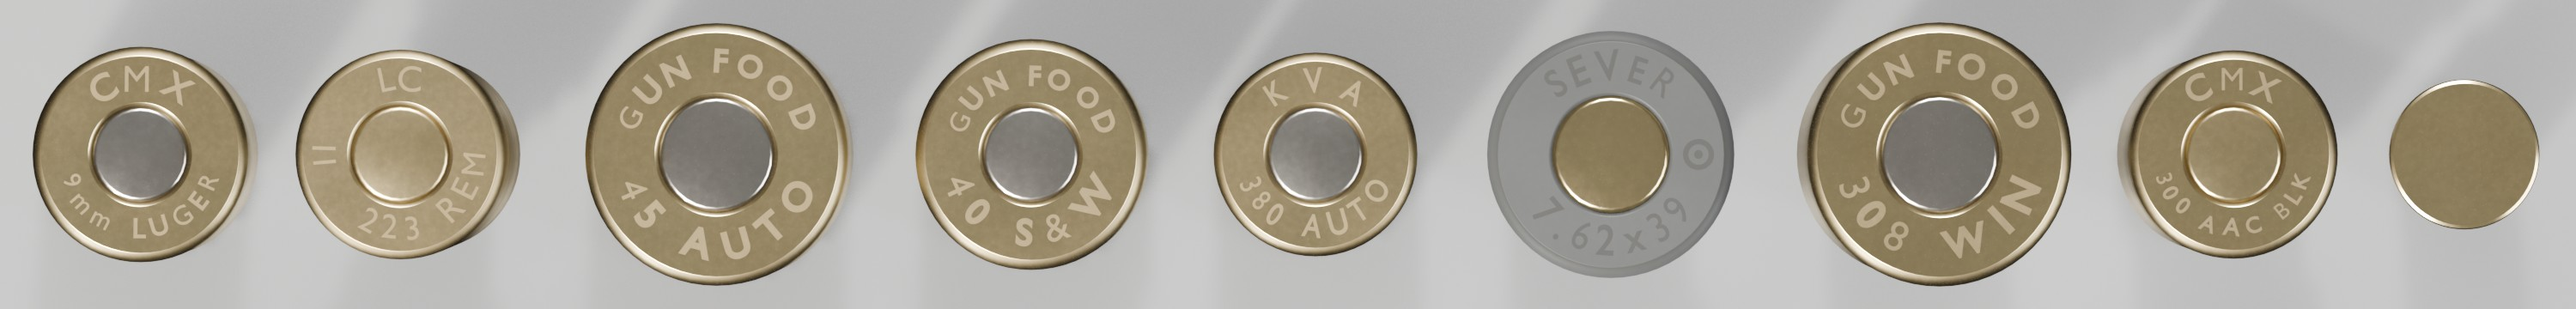
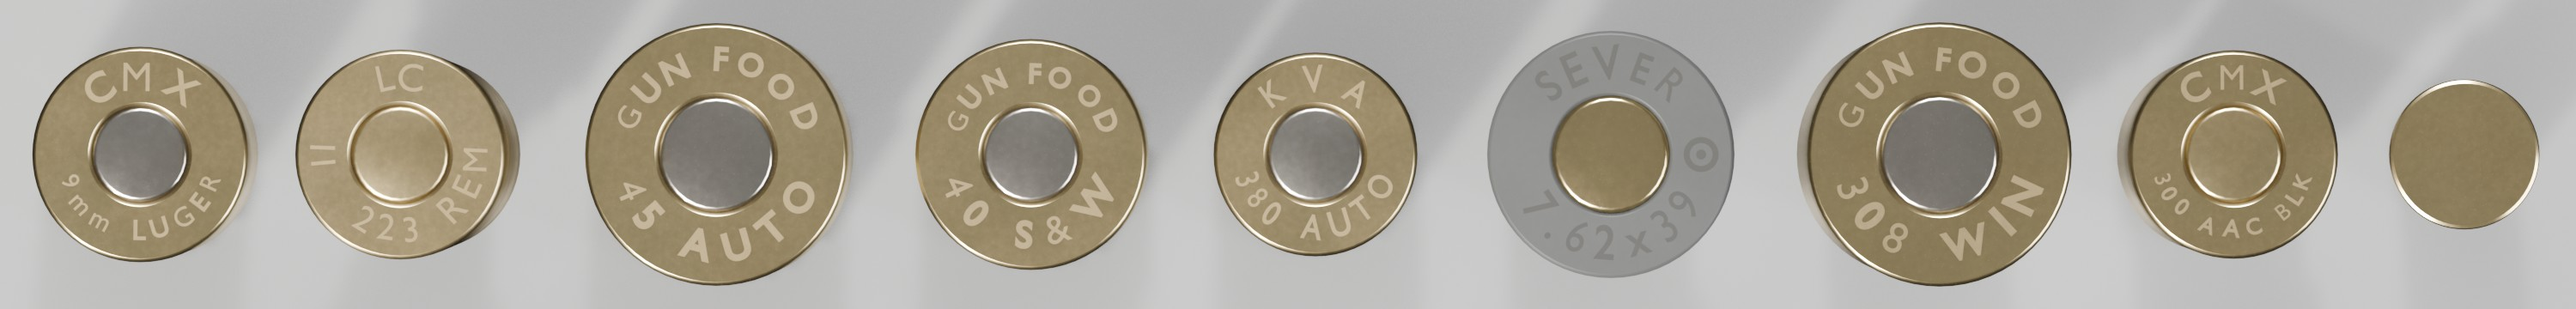
Rims and extractor grooves to SAAMI/C.I.P. geometry per cartridge
The rim front bevel was modelled as a cone added in front of the rim,
the same on every cartridge, with a 0.4 mm head-side chamfer no standard
calls for. Now, per the SAAMI drawings and the C.I.P. .223 sheet:

- the rim's outer face runs (rim thickness - rim_bevel) from the head,
  a 35 deg bevel (from the axis) takes it to the rim's flat front face
  at the rim thickness, then the groove bottom and a ramp at the
  cartridge's groove_front_angle up to the body (C.I.P. E = R + e + ramp)
- per-cartridge rim_bevel from SAAMI (rim thickness minus rim land),
  groove ramps 25 (.223, .300 BLK), 35 (9mm), 36 (.308), 48 (7.62x39);
  pistol ramps not labelled on the drawings are marked estimated
- head_chamfer (0.15 mm edge break) replaces rim_chamfer
- SPECS.md lists the new fields; README describes the rim geometry

diff --git a/cartridges/specs.py b/cartridges/specs.py
@@ -13,7 +13,8 @@ them as estimated.
 
 Naming follows C.I.P./SAAMI drawings: L1 shoulder_start, L2 neck_start, L3 length,
 P1 base_dia, P2 shoulder_dia, H1 mouth_dia (neck), R1 rim_dia, R rim_thickness,
-E groove_top, E1 groove_dia.
+E groove_top, E1 groove_dia, f rim_bevel, e groove_width, alpha rim_bevel_angle,
+beta groove_front_angle.
 
 Pure Python (no bpy): usable and testable outside Blender.
 """
@@ -81,10 +82,16 @@ class CaseSpec:
     neck_radius: float = 1.0  # fillet where shoulder meets neck
     # Extractor groove (rimless cases); defaults derived in finalize()
     groove_dia: float | None = None  # E1
-    groove_top: float | None = None  # E, head to start of body
-    rim_bevel_angle: float = 35.0  # rim front bevel, from the radial plane
-    groove_front_angle: float = 25.0  # groove ramp up to the body, from the axis
-    rim_chamfer: float = 0.32  # head-side rim chamfer, as a fraction of rim thickness
+    groove_top: float | None = None  # E, head to start of body; default from the groove below
+    # Rim and groove shape (rimless cases), as SAAMI and C.I.P. draw it: the rim's outer face
+    # runs from the head for (rim_thickness - rim_bevel), a bevel at rim_bevel_angle takes the
+    # front edge in to the rim's flat front face at rim_thickness, then the groove bottom
+    # (at least groove_width) and a ramp at groove_front_angle up to the body at groove_top.
+    rim_bevel: float = 0.38  # C.I.P. f: axial length of the rim's front bevel (SAAMI: rim thickness minus rim land)
+    rim_bevel_angle: float = 35.0  # C.I.P. alpha: rim front bevel, from the case axis
+    groove_width: float = 0.90  # C.I.P. e: flat bottom of the extractor groove (.223: 0.76 minimum)
+    groove_front_angle: float = 25.0  # C.I.P. beta: groove ramp up to the body, from the case axis
+    head_chamfer: float = 0.15  # mm, the head-side edge of the rim; not in the standards, edge just broken
     # Construction details, not in standards
     mouth_wall: float = 0.30
     base_wall: float = 0.90
@@ -285,8 +292,11 @@ def finalize(c: Cartridge) -> Cartridge:
     if k.rimless:
         if k.groove_dia is None:
             k.groove_dia = round(k.rim_dia * 0.86, 2)
-        if k.groove_top is None:
-            k.groove_top = round(k.rim_thickness + 1.9, 2)
+        if not (0.0 <= k.rim_bevel < k.rim_thickness):
+            raise SpecError(f"{w}: rim_bevel must be shorter than the rim thickness")
+        if k.groove_top is None:  # C.I.P.: E = R + e + ramp
+            ramp = (k.base_dia - k.groove_dia) / 2 / math.tan(math.radians(k.groove_front_angle))
+            k.groove_top = round(k.rim_thickness + k.groove_width + ramp, 2)
         if not (k.groove_dia < k.base_dia and k.groove_top > k.rim_thickness):
             raise SpecError(f"{w}: extractor groove must be narrower than the body and above the rim")
     # tolerances: record which ones fell back to class defaults

diff --git a/cartridges/profiles.py b/cartridges/profiles.py
@@ -138,27 +138,30 @@ def case_profile(c: CaseSpec, crimp: Crimp | None = None, seg: int = 5):
     pd = c.pocket_depth
     fh = c.flash_hole_dia / 2
     floor = pd + c.web
-    f = c.rim_chamfer * t
+    hc = min(c.head_chamfer, 0.3 * t)
     pts = [
         (fh, pd, 0, m),
         (rp, pd, 0.25, m),
         (rp, 0.15, 0.03, m),
         (rp + 0.15, 0.0, 0.03, m),  # pocket mouth chamfer
-        (R - f, 0.0, 0.06, m),  # head-side rim chamfer, edges just broken
-        (R, f, 0.06, m),
-        (R, t, 0.10, m),
+        (R - hc, 0.0, 0.03, m),  # head-side edge of the rim, just broken
+        (R, hc, 0.03, m),
     ]
     if c.rimless:
+        # SAAMI / C.I.P.: the rim's outer face, a bevel (f long, alpha from the axis) into the
+        # rim's flat front face at the rim thickness, the groove bottom, the ramp (beta) to the body
         G, E = c.groove_dia / 2, c.groove_top
-        rim_dz = (R - G) * math.tan(math.radians(c.rim_bevel_angle))
-        front_dz = (P1 - G) / math.tan(math.radians(c.groove_front_angle))
-        room = E - t - 0.25  # keep at least a 0.25 mm flat at the groove bottom
-        if rim_dz + front_dz > room:
-            k = room / (rim_dz + front_dz)
-            rim_dz, front_dz = rim_dz * k, front_dz * k
-        pts += [(G, t + rim_dz, 0.10, m), (G, E - front_dz, 0.20, m), (P1, E, 0.35, m)]
+        f = min(c.rim_bevel, t - hc - 0.05)
+        inset = min(f * math.tan(math.radians(c.rim_bevel_angle)), R - G)
+        pts += [(R, t - f, 0.04, m)]
+        if R - inset - G > 0.03:
+            pts += [(R - inset, t, 0.04, m), (G, t, 0.08, m)]
+        else:  # the bevel runs all the way down to the groove
+            pts += [(G, t, 0.08, m)]
+        front_dz = min((P1 - G) / math.tan(math.radians(c.groove_front_angle)), E - t - 0.25)
+        pts += [(G, E - front_dz, 0.15, m), (P1, E, 0.30, m)]
     else:
-        pts += [(P1, t, 0.30, m)]
+        pts += [(R, t, 0.10, m), (P1, t, 0.30, m)]
     if c.bottleneck:
         P2 = c.shoulder_dia / 2
         pts += [(P2, c.shoulder_start, c.shoulder_radius, m), (H1, c.neck_start, c.neck_radius, m)]

diff --git a/tools/gen_specs_md.py b/tools/gen_specs_md.py
@@ -28,6 +28,11 @@ CASE_ROWS = [
     ("rim_thickness", "Rim thickness (R)", "rim_thickness_tol"),
     ("groove_dia", "Extractor groove diameter (E1)", "groove_dia_tol"),
     ("groove_top", "Head to body (E)", None),
+    ("rim_bevel", "Rim front bevel length (f)", None),
+    ("rim_bevel_angle", "Rim front bevel angle (α, °)", None),
+    ("groove_width", "Groove bottom width (e)", None),
+    ("groove_front_angle", "Groove ramp angle (β, °)", None),
+    ("head_chamfer", "Head edge chamfer", None),
 ]
 BULLET_ROWS = [
     ("dia", "Diameter (max)"),
@@ -49,7 +54,7 @@ def _applies(c, name):
     k = c.case
     if name in ("shoulder_dia", "shoulder_start", "neck_start") and not k.bottleneck:
         return False
-    if name in ("groove_dia", "groove_top") and not k.rimless:
+    if name in ("groove_dia", "groove_top", "rim_bevel", "rim_bevel_angle", "groove_width", "groove_front_angle", "head_chamfer") and not k.rimless:
         return False
     return True
 

diff --git a/cartridges/variation.py b/cartridges/variation.py
@@ -300,7 +300,7 @@ def sample_case(cart: Cartridge, rng: random.Random, cond: Condition) -> CaseSpe
         rim_thickness=_band(rng, k.rim_thickness, cart.tol("rim_thickness_tol"), "rim"),
         shoulder_radius=k.shoulder_radius * soft,
         neck_radius=k.neck_radius * soft,
-        rim_chamfer=min(0.40, k.rim_chamfer * soft),
+        head_chamfer=k.head_chamfer * soft,
     )
     if k.bottleneck:
         new["shoulder_dia"] = _band(rng, k.shoulder_dia, body, "diameter", die)

diff --git a/cartridges/blender/mesh.py b/cartridges/blender/mesh.py
@@ -338,7 +338,7 @@ def headstamp_tools(cart, cp, rng: random.Random):
     pocket = case.primer_cup_dia / 2 + 0.02
     crimp = lot.primer_crimp
     inner = pocket + {"ring": 0.62, "stakes": 0.72}.get(crimp, 0.35)
-    outer = case.rim_dia / 2 - case.rim_chamfer * case.rim_thickness - 0.22
+    outer = case.rim_dia / 2 - case.head_chamfer - 0.30
     radius = (inner + outer) / 2
     cap = (hs.size or min(1.6, (outer - inner) * 0.72)) * st.size
     placed, taken = [], []

diff --git a/SPECS.md b/SPECS.md
@@ -22,7 +22,12 @@ SAAMI's minus tolerance: `19.15 −0.25` means a real case measures between 18.9
 | Rim diameter (R1) | 10.01 −0.25 | 9.6 −0.25 | 12.19 −0.25 | 10.77 −0.25 | 9.5 −0.25 | 11.35 −0.25 | 12.01 −0.25 | 9.6 −0.25 | 7.06 −0.3 |
 | Rim thickness (R) | 1.27 −0.25 | 1.14 −0.25 | 1.24 −0.25 | 1.4 −0.25 | 1.14 −0.25 | 1.45 −0.25 | 1.37 −0.25 | 1.14 −0.25 | 1.09 −0.18 |
 | Extractor groove diameter (E1) | ≈8.81 −0.51 | 8.43 −0.51 | 10.16 −0.25 | ≈8.81 −0.51 | ≈8.36 −0.25 | 9.55 −0.25 | 10.39 −0.51 | 8.43 −0.51 | — |
-| Head to body (E) | ≈3.17 | 3.13 | ≈3.14 | ≈3.3 | ≈3.04 | ≈3.35 | ≈3.27 | 3.15 | — |
+| Head to body (E) | ≈2.97 | 3.13 | ≈3.52 | ≈3.7 | ≈2.85 | ≈3.12 | ≈3.34 | 3.15 | — |
+| Rim front bevel length (f) | 0.38 | 0.45 | 0.38 | 0.51 | 0.38 | 0.38 | 0.38 | 0.46 | — |
+| Rim front bevel angle (α, °) | 35 | 35 | 35 | 35 | 35 | 35 | 35 | 35 | — |
+| Groove bottom width (e) | ≈0.9 | 0.76 | ≈0.9 | ≈0.9 | ≈0.9 | ≈0.9 | ≈0.9 | ≈0.9 | — |
+| Groove ramp angle (β, °) | 35 | 25 | ≈35 | ≈35 | ≈35 | 48 | 36 | 25 | — |
+| Head edge chamfer | ≈0.15 | ≈0.15 | ≈0.15 | ≈0.15 | ≈0.15 | ≈0.15 | ≈0.15 | ≈0.15 | — |
 | Primer | small-pistol | small-rifle | large-pistol | small-pistol | small-pistol | large-rifle | large-rifle | small-rifle | rimfire |
 
 ## Loaded rounds

diff --git a/README.md b/README.md
@@ -115,6 +115,11 @@ specs/*.toml, bullets/*.toml ──▶ specs.py      load, fill defaults, valida
   .300 Blackout both take .308" bullets. Noses are tangent ogives with a rounded tip
   (folded FMJ jacket) or a flat meplat (flat point); optional boat tail, cannelure, open
   lead base and heel (.22 LR).
+- **Rims and extractor grooves** follow the SAAMI and C.I.P. drawings per cartridge: the
+  rim's outer face, a 35° bevel inside the rim thickness (its length is the drawing's rim
+  thickness minus rim land), the rim's flat front face, the groove bottom and a ramp up to
+  the body at the cartridge's angle (25° on .223, 36° on .308, 48° on 7.62×39). The
+  head-side edge is only broken (0.15 mm); the standards don't chamfer it.
 - **Crimps.** Loaded pistol rounds get a taper crimp; rifle rounds are roll-crimped into the
   bullet's cannelure, which sets their seating depth; the .22 LR is crimped onto its heel.
   Empty cases stay uncrimped.
